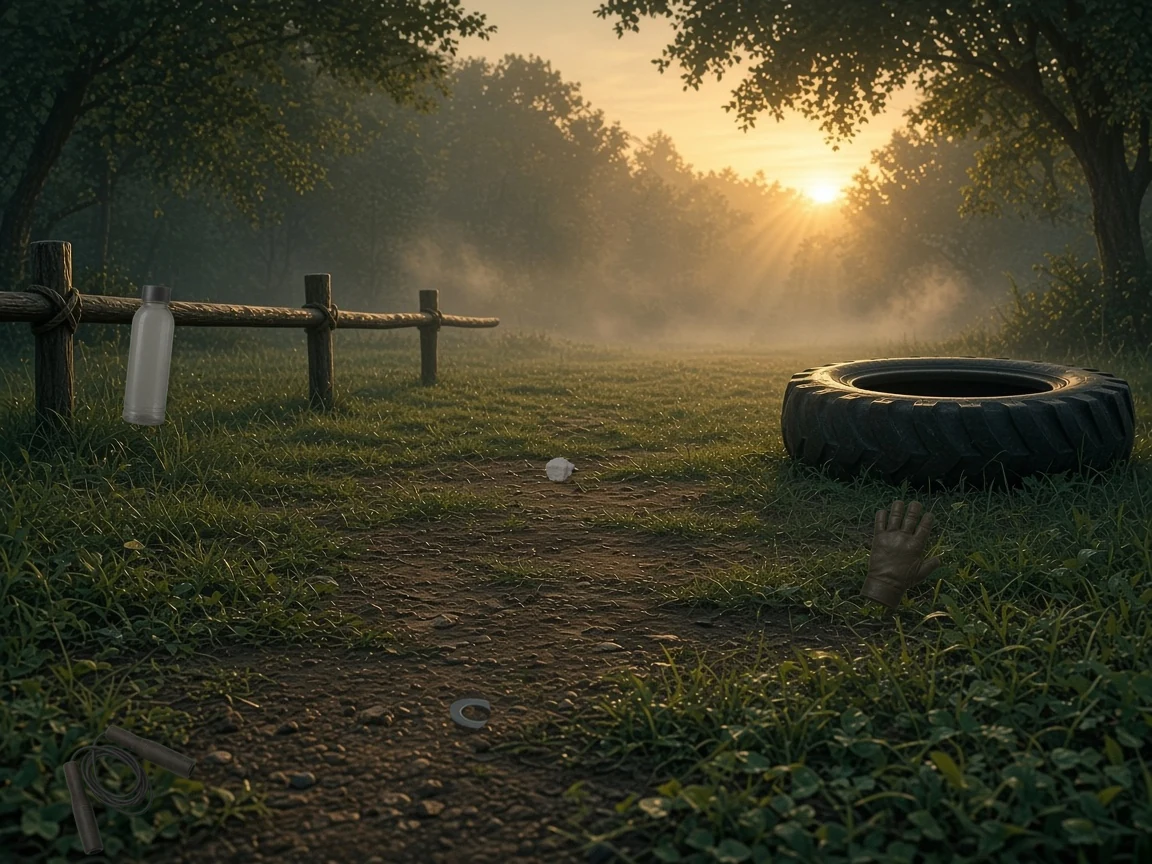
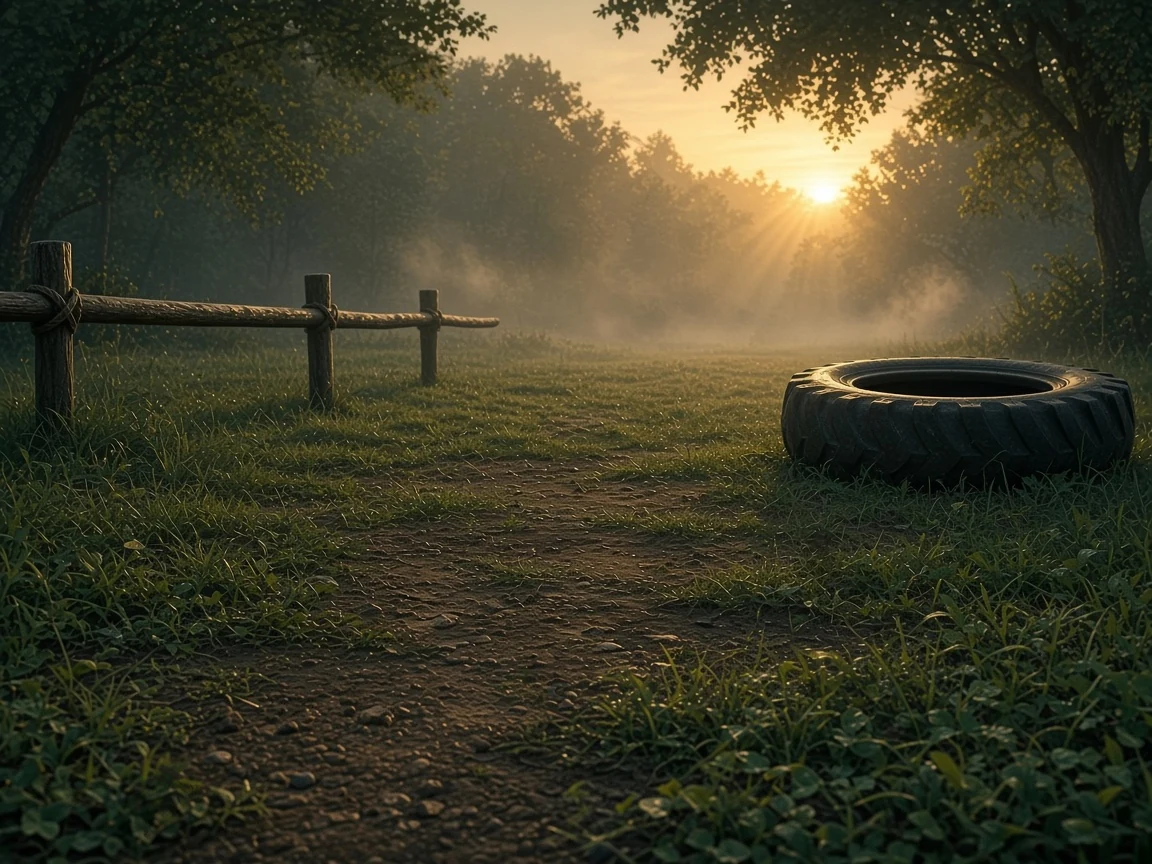
Hide the daily finds better, and tidy the Hide layout.
Re-place and blend the Nov 24-26 finds so they sit in grass, shadow and porch shade instead of on the fence. Give the daily line more space above the list, and move Hint and zoom to sit under the picture, with the breath ring after them.

diff --git a/index.html b/index.html
@@ -1663,7 +1663,7 @@ n.addEventListener("scroll",f,{passive:true});window.addEventListener("resize",f
   letter-spacing: .14em; text-transform: uppercase; color: var(--muted);
 }
 #todays-hide .th-line {
-  margin: 0 auto .8rem; max-width: 34rem;
+  margin: 0 auto 1.55rem; max-width: 34rem;
   font-size: clamp(1.5rem, 5.6vw, 2.2rem); font-weight: 800;
   line-height: 1.2; letter-spacing: -.02em; color: var(--text);
   text-wrap: balance;
@@ -1712,7 +1712,7 @@ n.addEventListener("scroll",f,{passive:true});window.addEventListener("resize",f
 }
 @keyframes th-found-pop { from { transform: translate(-50%,-50%) scale(.4); opacity: 0; } to { transform: translate(-50%,-50%) scale(1); opacity: 1; } }
 #todays-hide .th-breath {
-  margin: .8rem auto 0; width: 88px; height: 88px; position: relative;
+  margin: .85rem auto 0; width: 88px; height: 88px; position: relative;
 }
 #todays-hide .lead {
   margin: .4rem 0 0; font-size: 1.02rem; font-weight: 600;
@@ -1748,7 +1748,7 @@ n.addEventListener("scroll",f,{passive:true});window.addEventListener("resize",f
 #todays-hide .th-list button:focus-visible { outline: none; border-color: rgba(198,255,0,.75); }
 #todays-hide .th-tip { margin: .55rem 0 0; color: var(--muted); font-size: .92rem; }
 #todays-hide .th-msg { margin: .35rem 0 0; color: var(--lime, #C6FF00); font-weight: 600; min-height: 1.2em; }
-#todays-hide .th-row { display: flex; justify-content: center; gap: .45rem; flex-wrap: wrap; margin-top: .7rem; }
+#todays-hide .th-row { display: flex; justify-content: center; gap: .45rem; flex-wrap: wrap; margin-top: .65rem; }
 #todays-hide .th-btn {
   font: inherit; font-weight: 600; font-size: .82rem; cursor: pointer;
   background: transparent; color: var(--muted);
@@ -1775,6 +1775,13 @@ n.addEventListener("scroll",f,{passive:true});window.addEventListener("resize",f
       <div class="th-glow" id="todaysHideGlow" hidden></div>
       <div class="th-found-ring" id="todaysHideFound" hidden></div>
     </div>
+    <div class="th-row">
+      <button type="button" class="th-btn" id="todaysHideHint">Hint</button>
+      <button type="button" class="th-btn" id="todaysHideZoomOut" aria-label="Zoom out">−</button>
+      <button type="button" class="th-btn" id="todaysHideZoomIn" aria-label="Zoom in">+</button>
+      <button type="button" class="th-btn" id="todaysHideReset" hidden>Reset view</button>
+      <button type="button" class="th-share" id="todaysHideShare" hidden>Share</button>
+    </div>
     <div class="th-breath" id="todaysHideBreath" aria-hidden="true">
       <svg viewBox="0 0 88 88">
         <defs>
@@ -1792,13 +1799,6 @@ n.addEventListener("scroll",f,{passive:true});window.addEventListener("resize",f
     <p class="lead" id="todaysHideCue">Breathe and look.</p>
     <p class="th-tip" id="todaysHideTip">Pinch to look closer. Tap when you see it.</p>
     <p class="th-msg" id="todaysHideMsg" aria-live="polite"></p>
-    <div class="th-row">
-      <button type="button" class="th-btn" id="todaysHideHint">Hint</button>
-      <button type="button" class="th-btn" id="todaysHideZoomOut" aria-label="Zoom out">−</button>
-      <button type="button" class="th-btn" id="todaysHideZoomIn" aria-label="Zoom in">+</button>
-      <button type="button" class="th-btn" id="todaysHideReset" hidden>Reset view</button>
-      <button type="button" class="th-share" id="todaysHideShare" hidden>Share</button>
-    </div>
     <p class="fine">Stop if you get dizzy. Same 4-count as the cooling box.</p>
   </section>
 <section id="push">

diff --git a/test/todays-hide.test.js b/test/todays-hide.test.js
@@ -87,13 +87,20 @@ check("list and zoom controls are in the hide section",
   html.includes('id="todaysHideZoomOut"') && html.includes('id="todaysHideMarks"'));
 const hideChunk = html.slice(html.indexOf('id="todays-hide"'), html.indexOf('<section id="push">'));
 const at = (id) => hideChunk.indexOf(id);
-check("layout order is line, list, picture, then breath and the cue",
+check("layout order is kicker, line, list, picture, Hint and zoom, then breath and the cue",
+  hideChunk.indexOf("th-kicker") >= 0 &&
+  hideChunk.indexOf("th-kicker") < at('id="todaysHideLine"') &&
   at('id="todaysHideLine"') > 0 &&
   at('id="todaysHideLine"') < at('id="todaysHideList"') &&
   at('id="todaysHideList"') < at('id="todaysHideStage"') &&
-  at('id="todaysHideStage"') < at('id="todaysHideBreath"') &&
+  at('id="todaysHideStage"') < at('id="todaysHideHint"') &&
+  at('id="todaysHideHint"') < at('id="todaysHideZoomOut"') &&
+  at('id="todaysHideZoomOut"') < at('id="todaysHideZoomIn"') &&
+  at('id="todaysHideZoomIn"') < at('id="todaysHideBreath"') &&
   at('id="todaysHideBreath"') < at('id="todaysHideCue"') &&
   /id="todaysHideCue">Breathe and look\./.test(hideChunk));
+check("the daily line has extra space above the item pills",
+  /#todays-hide \.th-line \{[^}]*margin: 0 auto 1\.55rem/.test(html));
 check("the daily line is styled as the largest text in the section",
   /#todays-hide \.th-line \{[^}]*font-size: clamp\(1\.5rem/.test(html) &&
   /h2\.th-kicker \{[^}]*font-size: \.7rem/.test(html));
